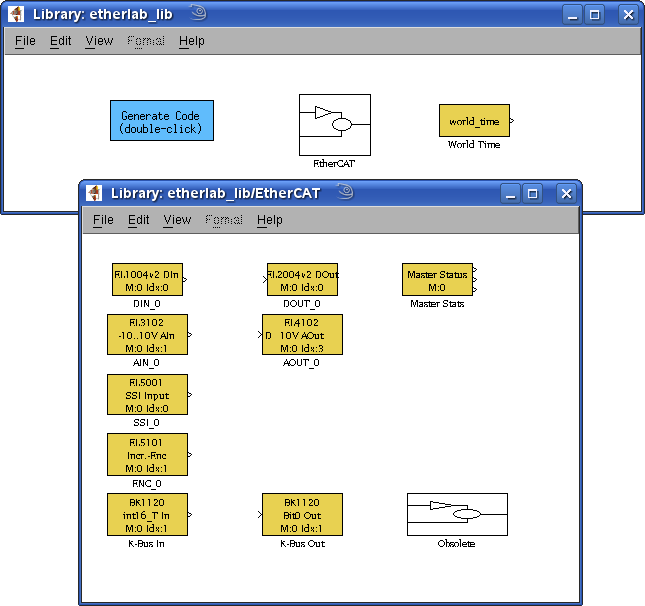
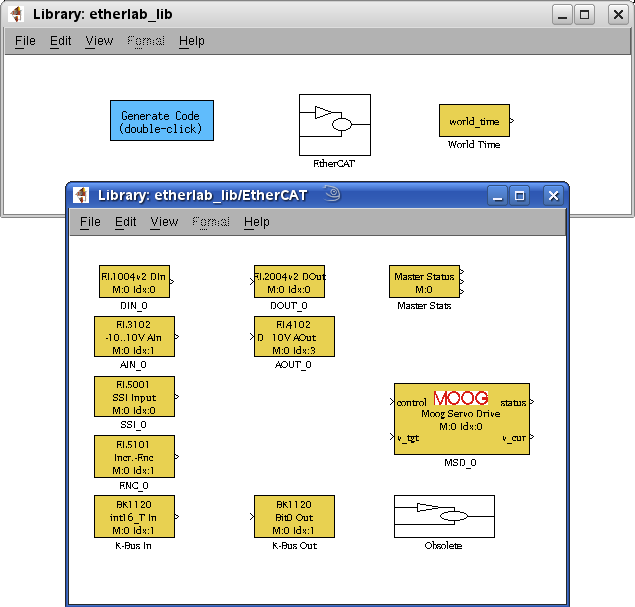
Added MOOG MSD to documentation.

diff --git a/doc/etherlab-rtw.tex b/doc/etherlab-rtw.tex
@@ -268,6 +268,18 @@ BK1120 KBUS-coupler output block.
   \end{center}
 \end{figure}
 
+Figure~\ref{fig:msd} shows the configuration dialog for the MOOG servo drive
+block. This block can be configured to be an input-only block, an output-only
+block or and input/output block.
+
+\begin{figure}[H]
+  \begin{center}
+    \includegraphics[width=0.4\textwidth]{images/moog_msd.png}
+    \caption{MOOG servo drive configuration}
+    \label{fig:msd}
+  \end{center}
+\end{figure}
+
 Figure~\ref{fig:masterstats} shows the configuration dialog for the EtherCAT
 master status block.
 
